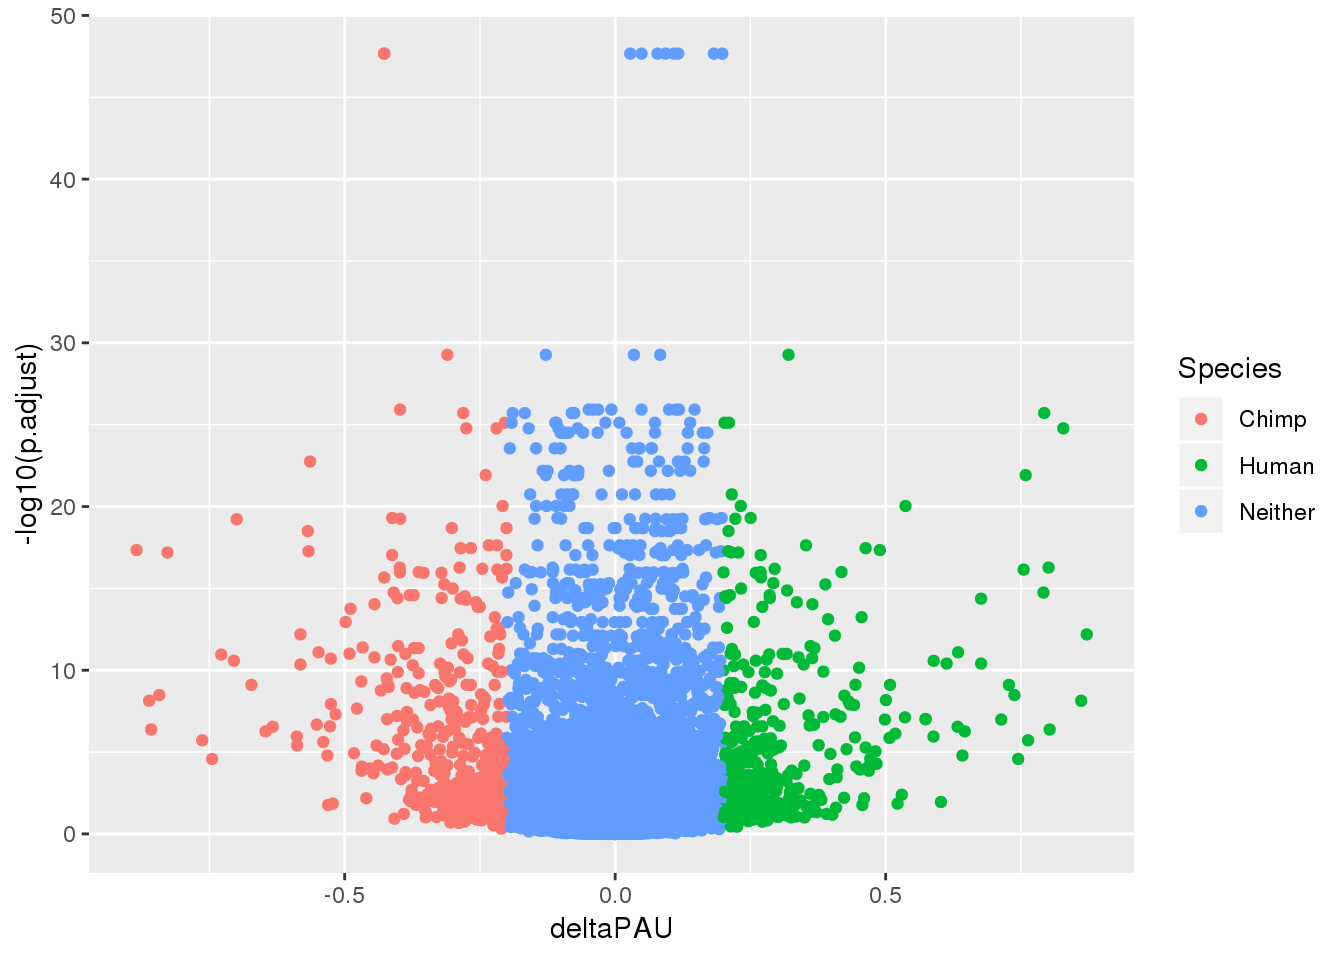
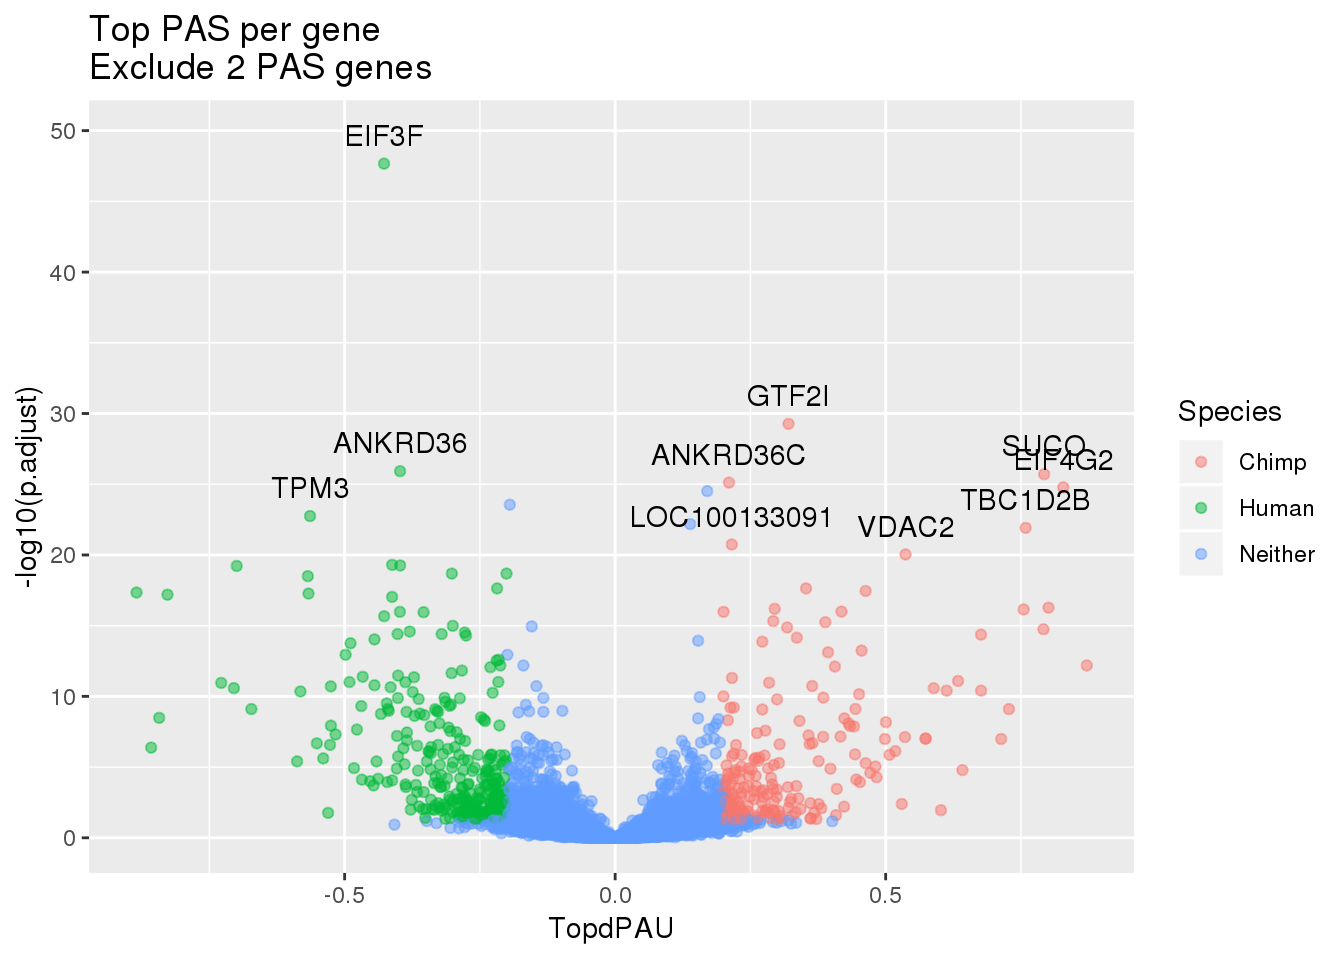
Build site.

diff --git a/docs/Nuclear_HvC.html b/docs/Nuclear_HvC.html
@@ -343,7 +343,7 @@ div.section {
 <div class="tab-content">
 <div id="summary" class="tab-pane fade in active">
 <p>
-<strong>Last updated:</strong> 2019-10-15
+<strong>Last updated:</strong> 2019-10-16
 </p>
 <p>
 <strong>Checks:</strong> <span class="glyphicon glyphicon-ok text-success" aria-hidden="true"></span> 7 <span class="glyphicon glyphicon-exclamation-sign text-danger" aria-hidden="true"></span> 0
@@ -434,10 +434,10 @@ This reproducible <a href="http://rmarkdown.rstudio.com">R Markdown</a> analysis
 <div class="panel panel-default">
 <div class="panel-heading">
 <p class="panel-title">
-<a data-toggle="collapse" data-parent="#workflowr-checks" href="#strongRepositoryversionstrongahrefhttpsgithubcombrimittlemanComparativeAPAtreef8676d2e5cc60f2fea703feb265b6e631c229340targetblankf8676d2a"> <span class="glyphicon glyphicon-ok text-success" aria-hidden="true"></span> <strong>Repository version:</strong> <a href="https://github.com/brimittleman/Comparative_APA/tree/f8676d2e5cc60f2fea703feb265b6e631c229340" target="_blank">f8676d2</a> </a>
+<a data-toggle="collapse" data-parent="#workflowr-checks" href="#strongRepositoryversionstrongahrefhttpsgithubcombrimittlemanComparativeAPAtree4a1903cba6a1e6dbe2bfcc784c67a3da1acd0c72targetblank4a1903ca"> <span class="glyphicon glyphicon-ok text-success" aria-hidden="true"></span> <strong>Repository version:</strong> <a href="https://github.com/brimittleman/Comparative_APA/tree/4a1903cba6a1e6dbe2bfcc784c67a3da1acd0c72" target="_blank">4a1903c</a> </a>
 </p>
 </div>
[2 lines of base64/hex data omitted]
 <div class="panel-body">
 <p>
 Great! You are using Git for version control. Tracking code development and connecting the code version to the results is critical for reproducibility. The version displayed above was the version of the Git repository at the time these results were generated. <br><br> Note that you need to be careful to ensure that all relevant files for the analysis have been committed to Git prior to generating the results (you can use <code>wflow_publish</code> or <code>wflow_git_commit</code>). workflowr only checks the R Markdown file, but you know if there are other scripts or data files that it depends on. Below is the status of the Git repository when the results were generated:
@@ -670,6 +670,9 @@ Untracked files:
     Untracked:  data/reverseLift/
     Untracked:  data/~$metadata_HCpanel.xlsx
 
+Unstaged changes:
+    Modified:   analysis/PASnumperSpecies.Rmd
+
 </code></pre>
 <p>
 Note that any generated files, e.g. HTML, png, CSS, etc., are not included in this status report because it is ok for generated content to have uncommitted changes.
@@ -707,6 +710,40 @@ Message
 </tr>
 </thead>
 <tbody>
+<tr>
+<td>
+Rmd
+</td>
+<td>
+<a href="https://github.com/brimittleman/Comparative_APA/blob/4a1903cba6a1e6dbe2bfcc784c67a3da1acd0c72/analysis/Nuclear_HvC.Rmd" target="_blank">4a1903c</a>
+</td>
+<td>
+brimittleman
+</td>
+<td>
+2019-10-16
+</td>
+<td>
+redo volcano plots
+</td>
+</tr>
+<tr>
+<td>
+html
+</td>
+<td>
+<a href="https://rawcdn.githack.com/brimittleman/Comparative_APA/9d67688dd0bd68fb724c151ded92b0ba6ee1913b/docs/Nuclear_HvC.html" target="_blank">9d67688</a>
+</td>
+<td>
+brimittleman
+</td>
+<td>
+2019-10-15
+</td>
+<td>
+Build site.
+</td>
+</tr>
 <tr>
 <td>
 Rmd
@@ -1006,13 +1043,68 @@ brimittleman
 </div>
 </div>
 <p>Volcano plot:</p>
-<p>I need the effect sizes and the significance.</p>
+<p>I need the effect sizes and the significance. I need to plot only the top PAS per cluster.</p>
 <pre class="r"><code>sig_geneP=sig %&gt;% separate(cluster,into = c(&quot;chr&quot;, &quot;gene&quot;), sep=&quot;:&quot;) %&gt;% select(gene, p.adjust)
 
-effectsize_wES=effectsize_sep %&gt;% full_join(sig_geneP, by=&quot;gene&quot;) %&gt;% mutate(Species=ifelse(deltaPAU &gt; 0.2, &quot;Human&quot;, ifelse(deltaPAU &lt; -0.2, &quot;Chimp&quot;, &quot;Neither&quot;)))</code></pre>
+effectsizeTop=effectsize_sep %&gt;% group_by(gene) %&gt;% summarise(Min=min(deltaPAU), Max=max(deltaPAU)) %&gt;% mutate(TopdPAU=ifelse(abs(Min)&gt;Max, Min, Max))
+
+#exclude when the max=min 
+effectsizeTopFilt=effectsizeTop %&gt;% filter(abs(Min) != Max)
+
+effectsize_wES=effectsizeTopFilt %&gt;% inner_join(sig_geneP, by=&quot;gene&quot;) %&gt;% mutate(Species=ifelse(TopdPAU &gt; 0.2 &amp; p.adjust&lt;.05, &quot;Chimp&quot;, ifelse(TopdPAU &lt; -0.2 &amp; p.adjust&lt; .05, &quot;Human&quot;, &quot;Neither&quot;)))</code></pre>
 <p>This is the significance for the gene.</p>
-<pre class="r"><code>ggplot(effectsize_wES,aes(x=deltaPAU, y=-log10(p.adjust),col=Species)) + geom_point()</code></pre>
-<p><img src="figure/Nuclear_HvC.Rmd/unnamed-chunk-19-1.png" width="672" style="display: block; margin: auto;" /> Not the best way to visualize this because every PAS per gene is assigned the same pvalue.</p>
+<pre class="r"><code>ggplot(effectsize_wES,aes(x=TopdPAU, y=-log10(p.adjust))) +geom_point(aes(col=Species),alpha=.5) + labs(title=&quot;Top PAS per gene \nExclude 2 PAS genes&quot;)+ geom_text(data=subset(effectsize_wES, -log10(p.adjust) &gt;20 &amp; abs(TopdPAU)&gt;.2 ), aes(x=TopdPAU,y=-log10(p.adjust) +2,label=gene))</code></pre>
+<p><img src="figure/Nuclear_HvC.Rmd/unnamed-chunk-19-1.png" width="672" style="display: block; margin: auto;" /></p>
+<p>
+<button type="button" class="btn btn-default btn-xs btn-workflowr btn-workflowr-fig" data-toggle="collapse" data-target="#fig-unnamed-chunk-19-1">
+Past versions of unnamed-chunk-19-1.png
+</button>
+</p>
+<div id="fig-unnamed-chunk-19-1" class="collapse">
+<div class="table-responsive">
+<table class="table table-condensed table-hover">
+<thead>
+<tr>
+<th>
+Version
+</th>
+<th>
+Author
+</th>
+<th>
+Date
+</th>
+</tr>
+</thead>
+<tbody>
+<tr>
+<td>
+<a href="https://github.com/brimittleman/Comparative_APA/blob/9d67688dd0bd68fb724c151ded92b0ba6ee1913b/docs/figure/Nuclear_HvC.Rmd/unnamed-chunk-19-1.png" target="_blank">9d67688</a>
+</td>
+<td>
+brimittleman
+</td>
+<td>
+2019-10-15
+</td>
+</tr>
+</tbody>
+</table>
+</div>
+</div>
+<p>Not the best way to visualize this because every PAS per gene is assigned the same pvalue.</p>
+<p>Try this including the matching one. I will make 2 plots. One with human dominant, one with chimp dominant.</p>
+<pre class="r"><code>effectsizeTopHuman=effectsize_sep %&gt;% group_by(gene) %&gt;% summarise(Min=min(deltaPAU), Max=max(deltaPAU)) %&gt;% mutate(TopdPAU=ifelse(abs(Min) &gt; Max, Min, ifelse(abs(Min)==Max, Min, Max)),TwoPAS=ifelse(abs(Min)==Max, T, F))
+
+effectsize_wES_human=effectsizeTopHuman %&gt;% inner_join(sig_geneP, by=&quot;gene&quot;) %&gt;% mutate(Species=ifelse(TopdPAU &gt; 0.2 &amp; p.adjust&lt;.05, &quot;Chimp&quot;, ifelse(TopdPAU &lt; -0.2 &amp; p.adjust&lt; .05, &quot;Human&quot;, &quot;Neither&quot;)))
+
+effectsizeTopChimp=effectsize_sep %&gt;% group_by(gene) %&gt;% summarise(Min=min(deltaPAU), Max=max(deltaPAU)) %&gt;% mutate(TopdPAU=ifelse(abs(Max)&gt;=abs(Min), Max, Min), TwoPAS=ifelse(abs(Min)==Max, T, F))
+
+effectsize_wES_chimp=effectsizeTopChimp %&gt;% inner_join(sig_geneP, by=&quot;gene&quot;) %&gt;% mutate(Species=ifelse(TopdPAU &gt; 0.2 &amp; p.adjust&lt;.05, &quot;Chimp&quot;, ifelse(TopdPAU &lt; -0.2 &amp; p.adjust&lt; .05, &quot;Human&quot;, &quot;Neither&quot;)))</code></pre>
+<pre class="r"><code>ggplot(effectsize_wES_human,aes(x=TopdPAU, y=-log10(p.adjust))) + geom_point(aes(col=Species, shape=TwoPAS),alpha=.5) + labs(title=&quot;Top PAS per gene \nHuman dominant for 2 PAS&quot;)+ geom_text(data=subset(effectsize_wES_human,-log10(p.adjust) &gt;20 &amp; abs(TopdPAU)&gt;.2 ), aes(x=TopdPAU,y=-log10(p.adjust) +2,label=gene))</code></pre>
+<p><img src="figure/Nuclear_HvC.Rmd/unnamed-chunk-21-1.png" width="672" style="display: block; margin: auto;" /></p>
+<pre class="r"><code>ggplot(effectsize_wES_chimp,aes(x=TopdPAU, y=-log10(p.adjust))) + geom_point(aes(col=Species, shape=TwoPAS),alpha=.5)  + labs(title=&quot;Top PAS per gene \nChimp dominant for 2 PAS&quot;)+ geom_text(data=subset(effectsize_wES_chimp, -log10(p.adjust) &gt;20 &amp; abs(TopdPAU)&gt;.2), aes(x=TopdPAU,y=-log10(p.adjust) +2,label=gene)) </code></pre>
+<p><img src="figure/Nuclear_HvC.Rmd/unnamed-chunk-22-1.png" width="672" style="display: block; margin: auto;" /> This suggest there are dominant PAS on the chimp side and the PAS usage is more spread out in the humans.</p>
 <br>
 <p>
 <button type="button" class="btn btn-default btn-workflowr btn-workflowr-sessioninfo" data-toggle="collapse" data-target="#workflowr-sessioninfo" style="display: block;">
